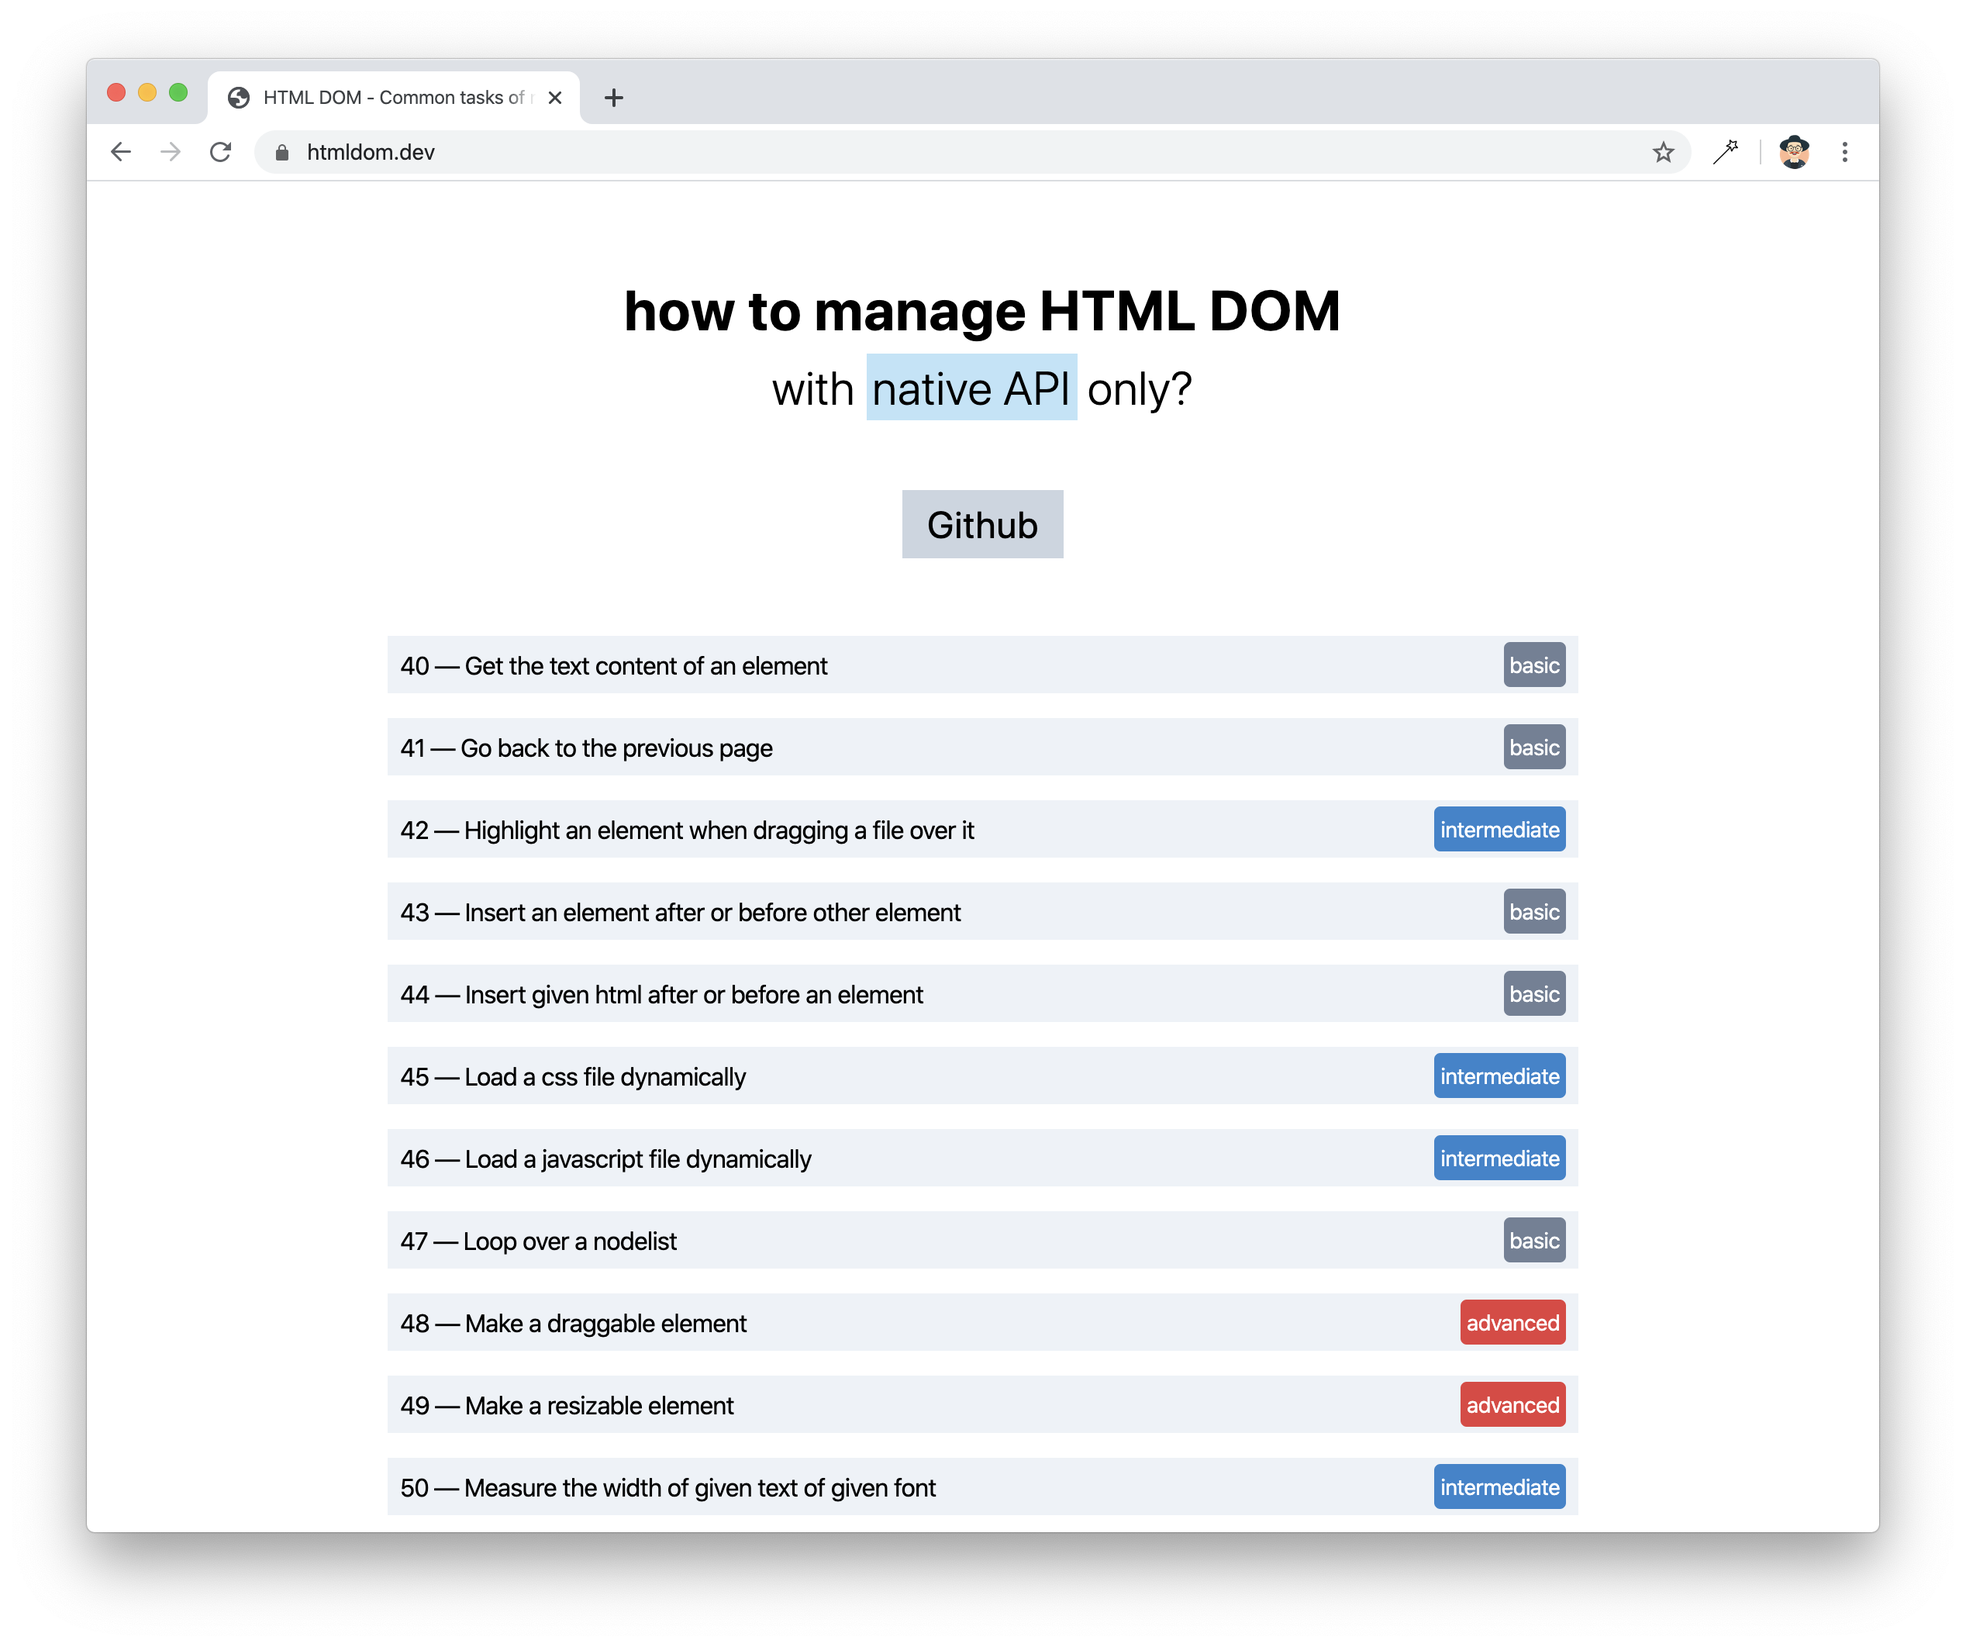
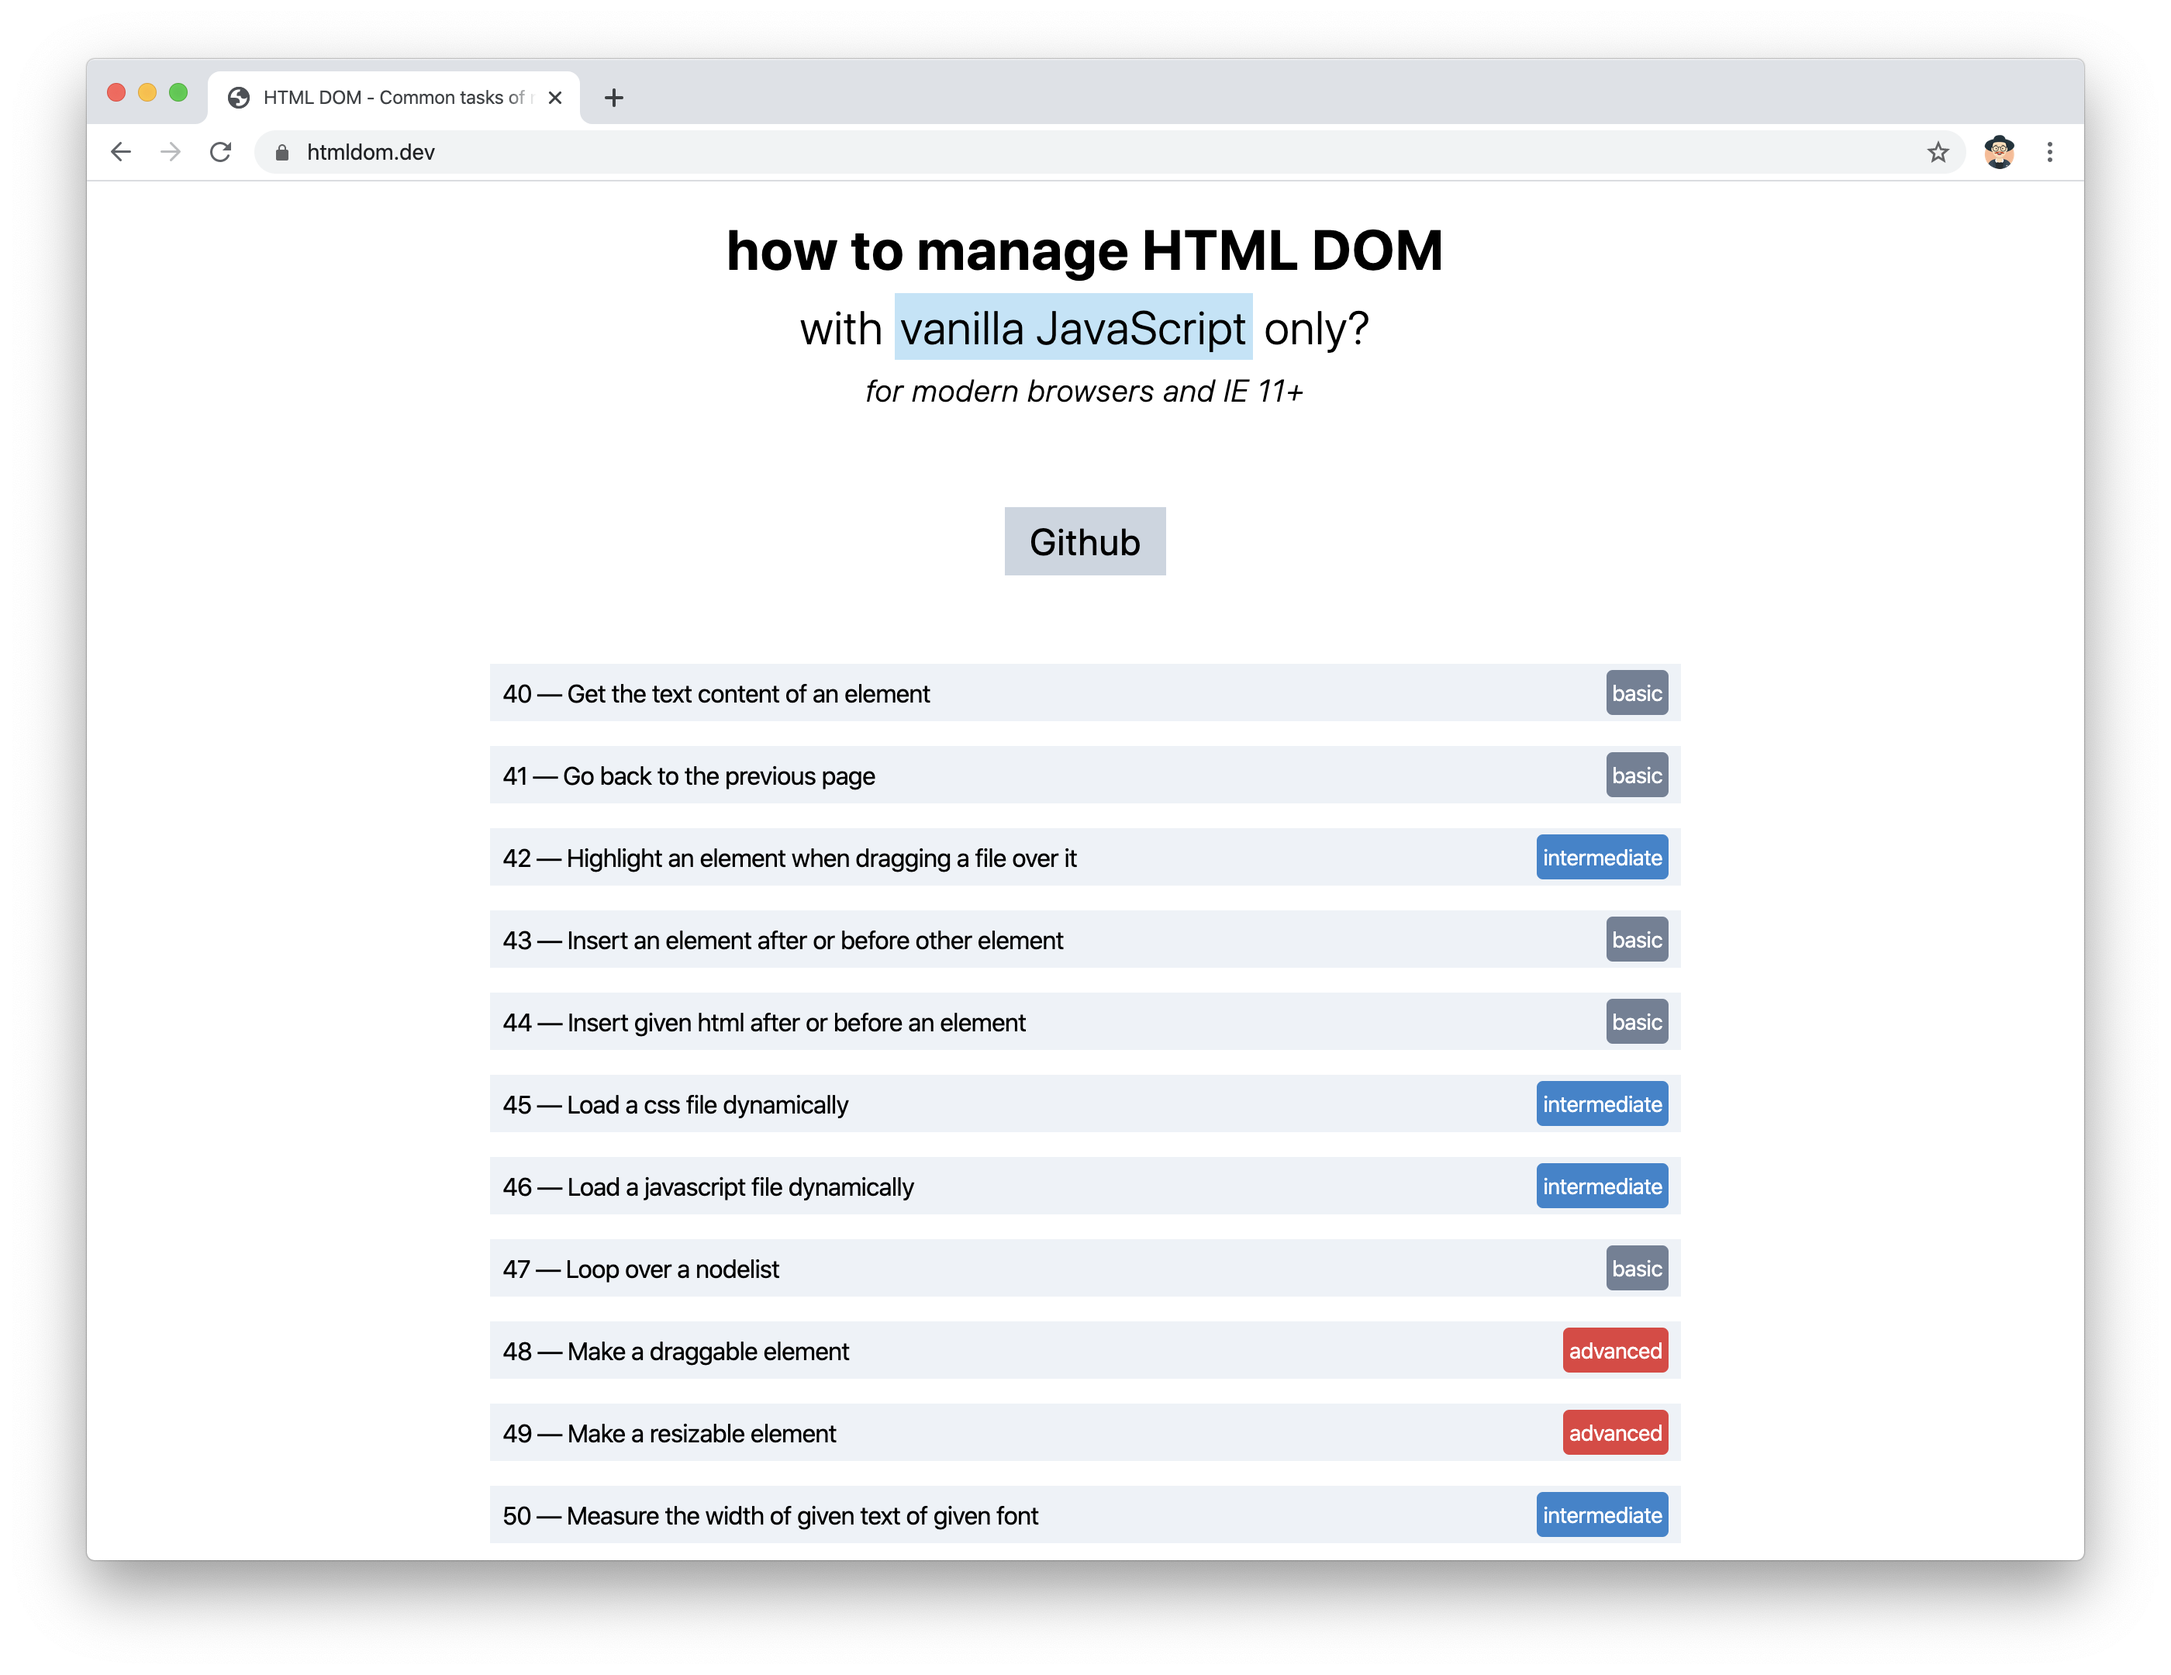
Use vanilla term instead of native API

diff --git a/client/index.html b/client/index.html
@@ -4,17 +4,17 @@
     <title>HTML DOM</title>
     <meta name="viewport" content="width=device-width, initial-scale=1" />
     <meta name="author" content="Nguyen Huu Phuoc" />
-	<meta name="description" content="Manage HTML DOM with native APIs" />
+	<meta name="description" content="Manage HTML DOM with vanilla JavaScript" />
     
 	<meta name="twitter:site" content="@nghuuphuoc" />
-	<meta name="twitter:title" content="Manage HTML DOM with native APIs" />
-	<meta name="twitter:description" content="Manage HTML DOM with native APIs" />
+	<meta name="twitter:title" content="Manage HTML DOM with vanilla JavaScript" />
+	<meta name="twitter:description" content="Manage HTML DOM with vanilla JavaScript" />
     <meta name="twitter:creator" content="@nghuuphuoc" />
     <meta name="twitter:image" content="https://htmldom.dev/assets/screenshot.png" />
 
 	<meta property="og:site_name" content="HTML DOM" />
-	<meta property="og:title" content="Manage HTML DOM with native APIs" />
-	<meta property="og:description" content="Manage HTML DOM with native APIs" />
+	<meta property="og:title" content="Manage HTML DOM with vanilla JavaScript" />
+	<meta property="og:description" content="Manage HTML DOM with vanilla JavaScript" />
     <meta property="og:url" content="https://htmldom.dev" />
     <meta property="og:image" content="https://htmldom.dev/assets/screenshot.png" />
     

diff --git a/client/pages/HomePage.tsx b/client/pages/HomePage.tsx
@@ -10,13 +10,13 @@ const HomePage = () => {
     return (
         <Layout>
             <Helmet>
-                <title>HTML DOM - Common tasks of managing HTML DOM with native API</title>
-                <meta name='description' content='Common tasks of managing HTML DOM with native API' />
+                <title>HTML DOM - Common tasks of managing HTML DOM with vanilla JavaScript</title>
+                <meta name='description' content='Common tasks of managing HTML DOM with vanilla JavaScript' />
             </Helmet>
 
             <h1 className='font-bold mt-32 text-center text-2xl sm:text-4xl px-1'>how to manage HTML DOM</h1>
             <h3 className='font-light mb-1 text-2xl sm:text-3xl text-center'>
-                with <span className='bg-blue-200 p-1'>native API</span> only?
+                with <span className='bg-blue-200 p-1'>vanilla JavaScript</span> only?
             </h3>
             <h4 className='font-light mb-16 text-xl text-center italic'>for modern browsers and IE 11+</h4>
 
